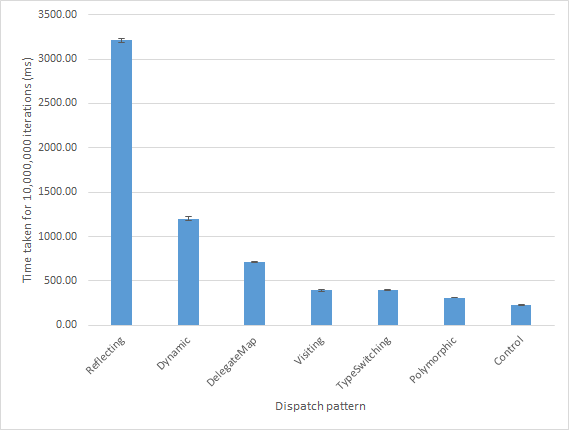
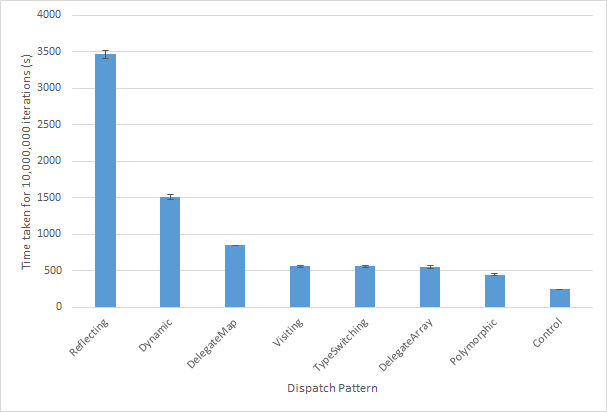
Added non-hashing map for performance comparison

diff --git a/src/DynamicDispatchPatterns/TypeDelegateArray/DelegateArrayFrobr.cs b/src/DynamicDispatchPatterns/TypeDelegateArray/DelegateArrayFrobr.cs
@@ -1,0 +1,67 @@
+namespace DynamicDispatchPatterns.TypeDelegateArray
+{
+    using System;
+    using System.Collections.Generic;
+
+    public class DelegateArrayFrobr
+    {
+        private readonly KeyValuePair<Type, Action<object>>[] map;
+
+        private int bar;
+
+        private int baz;
+
+        private int foo;
+
+        public DelegateArrayFrobr()
+        {
+            this.map = new []
+            {
+                new KeyValuePair<Type, Action<object>>(typeof(FooWidget), this.OnFrobFoo),
+                new KeyValuePair<Type, Action<object>>(typeof(BarWidget), this.OnFrobBar),
+                new KeyValuePair<Type, Action<object>>(typeof(BazWidget), this.OnFrobBaz)
+            };
+        }
+
+        public FrobResult Result
+        {
+            get
+            {
+                return new FrobResult()
+                {
+                    FooFrobCount = this.foo,
+                    BarFrobCount = this.bar,
+                    BazFrobCount = this.baz
+                };
+            }
+        }
+
+        public void Frob(object widget)
+        {
+            var widgetType = widget.GetType();
+
+            for (var i = 0; i < map.Length; i++)
+            {
+                if (map[i].Key == widgetType)
+                {
+                    map[i].Value(widget);
+                }
+            }
+        }
+
+        private void OnFrobBar(object x)
+        {
+            this.bar++;
+        }
+
+        private void OnFrobBaz(object x)
+        {
+            this.baz++;
+        }
+
+        private void OnFrobFoo(object x)
+        {
+            this.foo++;
+        }
+    }
+}

diff --git a/src/DynamicDispatchPatterns/TypeDelegateArray/DelegateArrayFrobAdapter.cs b/src/DynamicDispatchPatterns/TypeDelegateArray/DelegateArrayFrobAdapter.cs
@@ -1,0 +1,30 @@
+namespace DynamicDispatchPatterns.TypeDelegateArray
+{
+    using System.Collections.Generic;
+
+    public class DelegateArrayFrobAdapter : IFrobAdapter
+    {
+        private readonly DelegateArrayFrobr frobr = new DelegateArrayFrobr();
+
+        public FrobResult Frob(IEnumerable<WidgetType> widgets)
+        {
+            foreach (var widget in widgets)
+            {
+                switch (widget)
+                {
+                    case (WidgetType.Foo):
+                        this.frobr.Frob(new FooWidget());
+                        break;
+                    case (WidgetType.Bar):
+                        this.frobr.Frob(new BarWidget());
+                        break;
+                    case (WidgetType.Baz):
+                        this.frobr.Frob(new BazWidget());
+                        break;
+                }
+            }
+
+            return this.frobr.Result;
+        }
+    }
+}

diff --git a/src/DynamicDispatchPatterns.Console/Program.cs b/src/DynamicDispatchPatterns.Console/Program.cs
@@ -7,6 +7,7 @@
     using DynamicDispatchPatterns.DynamicKeyword;
     using DynamicDispatchPatterns.Polymorphic;
     using DynamicDispatchPatterns.Reflection;
+    using DynamicDispatchPatterns.TypeDelegateArray;
     using DynamicDispatchPatterns.TypeDelegateMap;
     using DynamicDispatchPatterns.TypeSwitch;
     using DynamicDispatchPatterns.Visitor;
@@ -26,6 +27,7 @@
                     new PolymorphicFrobAdapter(),
                     new ReflectingFrobAdapter(),
                     new DelegateMapFrobAdapter(),
+                    new DelegateArrayFrobAdapter(), 
                     new TypeSwitchingFrobAdapter(),
                     new VisitingFrobAdapter(),
                 }.ShuffleInfinitely().Take(35);
@@ -55,6 +57,8 @@
 
                 stopwatch.Reset();
             }
+
+            Console.WriteLine("Done. Press any key to close.");
 
             Console.ReadKey();
         }

diff --git a/src/DynamicDispatchPatterns/TypeDelegateArray/BarWidget.cs b/src/DynamicDispatchPatterns/TypeDelegateArray/BarWidget.cs
@@ -1,0 +1,6 @@
+namespace DynamicDispatchPatterns.TypeDelegateArray
+{
+    public class BarWidget
+    {
+    }
+}

diff --git a/src/DynamicDispatchPatterns/TypeDelegateArray/BazWidget.cs b/src/DynamicDispatchPatterns/TypeDelegateArray/BazWidget.cs
@@ -1,0 +1,6 @@
+namespace DynamicDispatchPatterns.TypeDelegateArray
+{
+    public class BazWidget
+    {
+    }
+}

diff --git a/src/DynamicDispatchPatterns/TypeDelegateArray/FooWidget.cs b/src/DynamicDispatchPatterns/TypeDelegateArray/FooWidget.cs
@@ -1,0 +1,6 @@
+namespace DynamicDispatchPatterns.TypeDelegateArray
+{
+    public class FooWidget
+    {
+    }
+}
